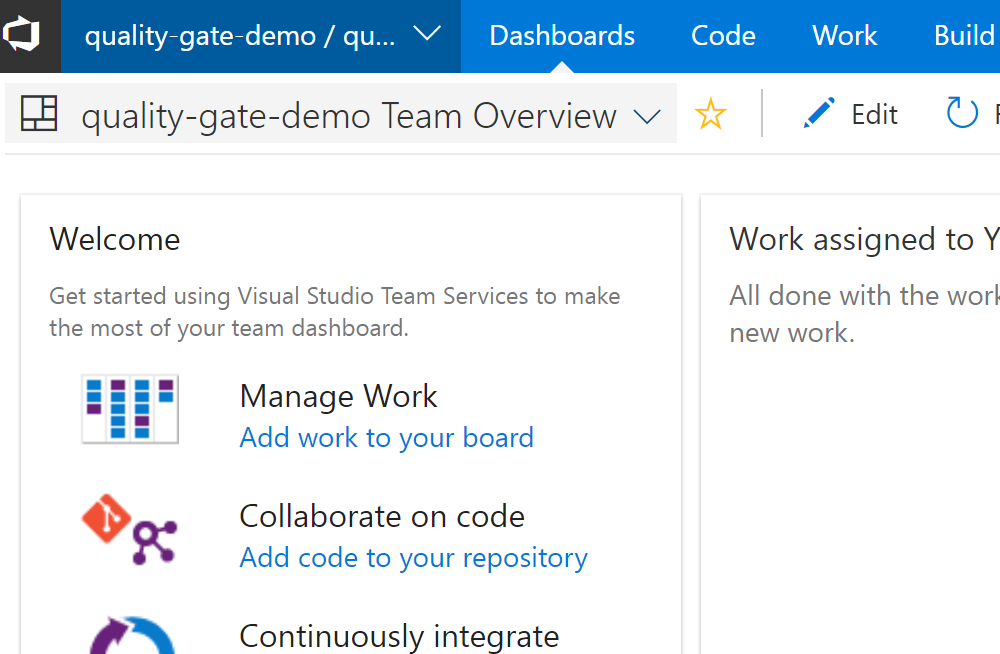
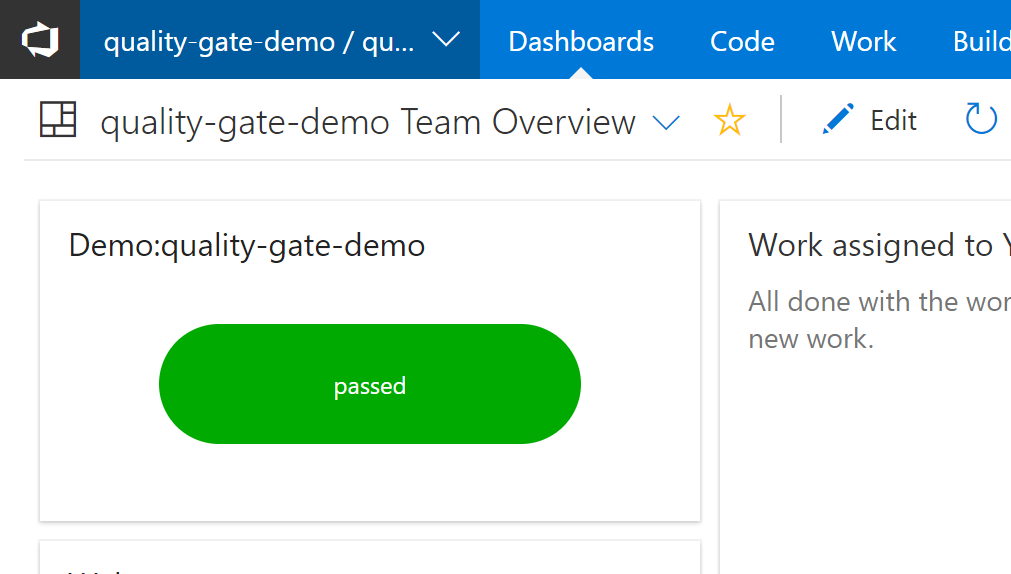
Bug fixes and documentation

diff --git a/src/main.ts b/src/main.ts
@@ -2,33 +2,40 @@
         VSS.require(["TFS/Dashboards/WidgetHelpers", "TFS/WorkItemTracking/RestClient"], function (WidgetHelpers, TFS_Wit_WebApi) {
             WidgetHelpers.IncludeWidgetStyles();
             VSS.register("QualityGateWidget", function () {
-                const projectId = VSS.getWebContext().project.id;
                 const getQueryInfo = function (widgetSettings) {
-                    // Extract query path from widgetSettings.customSettings and ask user to configure one if none is found
+                    // Extract settings from widgetSettings.customSettings and ask user to configure one if none is found
                     const settings = JSON.parse(widgetSettings.customSettings.data);
-                    if (!settings || !settings.queryPath) {
+                    if (!settings || !settings.projectKey || !settings.sonarUrl  ) {
                         const $container = $("#query-info-container");
                         $container.empty();
-                        $container.text("Sorry nothing to show, please configure a query path");
+                        $container.text("Sorry nothing to show, please configure the settings");
                         return WidgetHelpers.WidgetStatusHelper.Success();
                     }
-                    // Get a WIT client to make REST calls to VSTS
-                    return TFS_Wit_WebApi.getClient().getQuery(projectId, settings.queryPath)
-                        .then(function (query) {
-                            // Create a list with query details
-                            const $list = $("<ul>");
-                            $list.append($("<li>").text("Query Id: " + query.id));
-                            $list.append($("<li>").text("Query Name: " + query.name));
-                            $list.append($("<li>").text("Created By: " + (query.createdBy ? query.createdBy.displayName : "<unknown>")));
-                            // Append the list to the query-info-container
-                            const $container = $("#query-info-container");
-                            $container.empty();
-                            $container.append($list);
-                            // Use the widget helper and return success as Widget Status
-                            return WidgetHelpers.WidgetStatusHelper.Success();
-                        }, function (error) {
-                            // Use the widget helper and return failure as Widget Status
-                            return WidgetHelpers.WidgetStatusHelper.Failure(error.message);
+
+                    // https://localhost/api/qualitygates/project_status?projectKey=Demo:quality-gate-dem
+                    // {"projectStatus":{"status":"OK","conditions":[],"periods":[],"ignoredConditions":false}}
+
+                    return $.getJSON( settings.sonarUrl + settings.projectKey, function(data) {
+                        const $span = $("<div>");
+
+                        if (data.projectStatus.status === "OK") {
+                            $span.text("passed");
+                            $span.addClass("level levelOk");
+                        }
+                        else {
+                            $span.text("failed");
+                            $span.addClass("level levelFailed");
+                        }
+
+                        const $container = $("#query-info-container");
+                        $container.empty();
+                        $container.append($span);
+
+                        return WidgetHelpers.WidgetStatusHelper.Success();
+                        })
+                        .fail(function(error) {
+                            console.log(error);
+                            return WidgetHelpers.WidgetStatusHelper.Failure("Error occurred");
                         });
                 };
                 return {

diff --git a/src/configuration.ts b/src/configuration.ts
@@ -1,23 +1,38 @@
 VSS.require("TFS/Dashboards/WidgetHelpers", function (WidgetHelpers) {
     WidgetHelpers.IncludeWidgetConfigurationStyles();
     VSS.register("QualityGateWidget-Configuration", function () {
-        const $queryDropdown = $("#query-path");
+        const $projectKey = $("#project-picker-input");
+        const $sonarUrl = $("#sonar-url-input");
 
         return {
             load: function (widgetSettings, widgetConfigurationContext) {
                 const settings = JSON.parse(widgetSettings.customSettings.data);
-                if (settings && settings.queryPath) {
-                    $queryDropdown.val(settings.queryPath);
-                }
-                $queryDropdown.on("change", function () {
+
+                function configurationChange() {
                     const customSettings = {
                         data: JSON.stringify({
-                            queryPath: $queryDropdown.val()
+                            projectKey: $projectKey.val(),
+                            sonarUrl: $sonarUrl.val()
                         })
                     };
                     const eventName = WidgetHelpers.WidgetEvent.ConfigurationChange;
                     const eventArgs = WidgetHelpers.WidgetEvent.Args(customSettings);
                     widgetConfigurationContext.notify(eventName, eventArgs);
+                }
+
+                if (settings) {
+                    if (settings.projectKey) {
+                        $projectKey.val(settings.projectKey);
+                    }
+                    if (settings.sonarUrl) {
+                        $sonarUrl.val(settings.sonarUrl);
+                    }
+                }
+                $projectKey.on("change", function () {
+                    configurationChange();
+                });
+                $sonarUrl.on("change", function () {
+                    configurationChange();
                 });
 
                 return WidgetHelpers.WidgetStatusHelper.Success();
@@ -25,7 +40,8 @@ VSS.require("TFS/Dashboards/WidgetHelpers", function (WidgetHelpers) {
             onSave: function () {
                 const customSettings = {
                     data: JSON.stringify({
-                        queryPath: $queryDropdown.val()
+                        projectKey: $projectKey.val(),
+                        sonarUrl: $sonarUrl.val()
                     })
                 };
                 return WidgetHelpers.WidgetConfigurationSave.Valid(customSettings);

diff --git a/static/css/app.css b/static/css/app.css
@@ -5,3 +5,87 @@ body {
 span {
     font-style: italic;
 }
+
+#project-picker-input #sonar-url-input {
+  width: 100%;
+  height: 32px;
+}
+
+.level {
+  width: 70%;
+  height: 5em;
+  margin: 30px auto;
+  border-radius: 200px;
+  text-align: center;
+  vertical-align: middle;
+  line-height: 5em;
+  color: white;
+}
+
+.levelOk {
+  background-color: #0a0;
+}
+
+.levelFailed {
+  background-color: red;
+}
+
+.loader,
+.loader:before,
+.loader:after {
+  background: #2bbaff;
+  -webkit-animation: load1 1s infinite ease-in-out;
+  animation: load1 1s infinite ease-in-out;
+  width: 1em;
+  height: 4em;
+}
+.loader {
+  color: #2bbaff;
+  text-indent: -9999em;
+  margin: 48px auto;
+  position: relative;
+  font-size: 11px;
+  -webkit-transform: translateZ(0);
+  -ms-transform: translateZ(0);
+  transform: translateZ(0);
+  -webkit-animation-delay: -0.16s;
+  animation-delay: -0.16s;
+}
+.loader:before,
+.loader:after {
+  position: absolute;
+  top: 0;
+  content: '';
+}
+.loader:before {
+  left: -1.5em;
+  -webkit-animation-delay: -0.32s;
+  animation-delay: -0.32s;
+}
+.loader:after {
+  left: 1.5em;
+}
+@-webkit-keyframes load1 {
+  0%,
+  80%,
+  100% {
+    box-shadow: 0 0;
+    height: 4em;
+  }
+  40% {
+    box-shadow: 0 -2em;
+    height: 5em;
+  }
+}
+@keyframes load1 {
+  0%,
+  80%,
+  100% {
+    box-shadow: 0 0;
+    height: 4em;
+  }
+  40% {
+    box-shadow: 0 -2em;
+    height: 5em;
+  }
+}

diff --git a/static/configuration.html b/static/configuration.html
@@ -7,15 +7,21 @@
 
 <body>
     <div class="widget-configuration">
-        <div class="dropdown" id="query-path-dropdown">
-            <label class="label">Query: </label>
-            <div class="wrapper">
-                <select id="query-path">						
-						<option value="Shared Queries/Feedback">Shared Queries/Feedback</option>
-						<option value="Shared Queries/Current Sprint/Work in Progress">Shared Queries/Current Sprint/Work in Progress</option>
-						<option value="Shared Queries/Current Sprint/Test Cases">hared Queries/Current Sprint/Test Cases</option>											
-					</select>
-            </div>
+        <div id="project-picker">
+            <fieldset>
+                <label class="config-label">Project Key</label>
+                <div class="wrapper">
+                    <input id="project-picker-input" class="input-text-box field">
+                </div>
+            </fieldset>
+        </div>
+        <div id="sonar-url">
+            <fieldset>
+                <label class="config-label">Sonar URL</label>
+                <div class="wrapper">
+                    <input id="sonar-url-input" class="input-text-box field">
+                </div>
+            </fieldset>
         </div>
     </div>
     <script src="../lib/VSS.SDK.min.js"></script>

diff --git a/static/index.html b/static/index.html
@@ -10,7 +10,9 @@
     <div class="widget">
         <h2 class="title">
             </h1>
-            <div id="query-info-container"></div>
+            <div id="query-info-container">
+                <div class="loader">Loading...</div>
+            </div>
     </div>
     <script src="../lib/VSS.SDK.min.js"></script>
     

diff --git a/readme.md b/readme.md
@@ -1,1 +1,1 @@
-# SonarQube Quality Gate Widget for VSTS
+# SonarQube Quality Gate Dashboard Widget for VSTS
